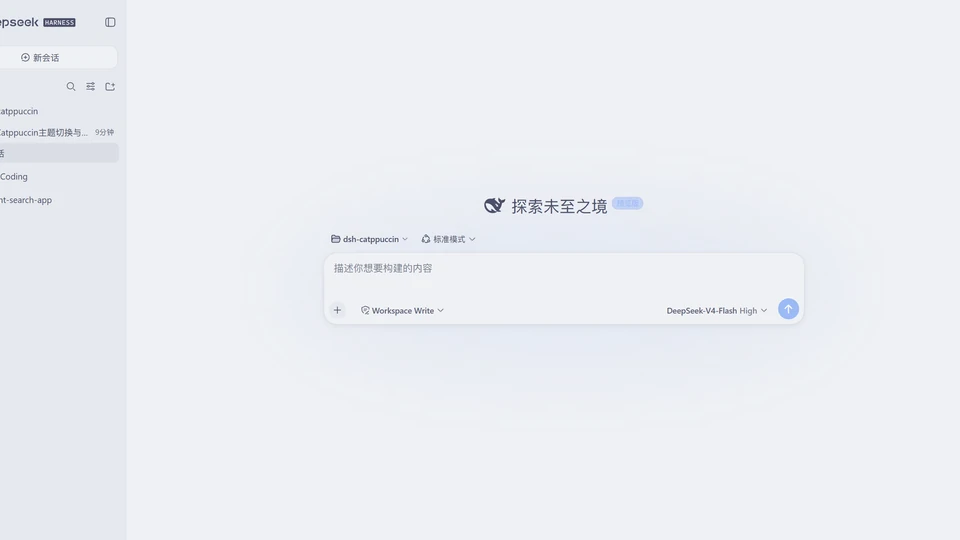
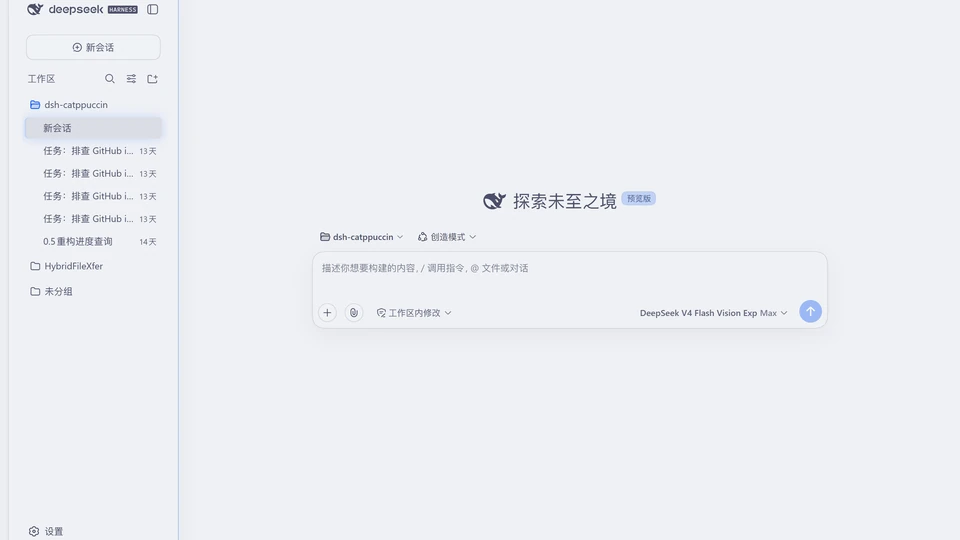
chore(catalog): sync upstream themes

diff --git a/THEMES.en.md b/THEMES.en.md
@@ -18,7 +18,7 @@
 <td align="center" valign="middle">Abyssal Maid Atelier</td>
 <td align="center" valign="middle"><img src="previews/small-tailqwq.maid-atelier.webp" alt="Abyssal Maid Atelier" width="260"></td>
 <td align="center" valign="middle"><a href="https://github.com/Small-tailqwq/dsh-deep-whale">Small-tailqwq/dsh-deep-whale</a></td>
-<td align="center" valign="middle">2,154</td>
+<td align="center" valign="middle">2,166</td>
 </tr>
 <tr>
 <td align="center" valign="middle">DSH-Transparent-UI-Plugin</td>
@@ -30,13 +30,13 @@
 <td align="center" valign="middle">Open Sea Skin</td>
 <td align="center" valign="middle"><img src="previews/d-dev0101.open-sea-skin.webp" alt="Open Sea Skin" width="260"></td>
 <td align="center" valign="middle"><a href="https://github.com/d-dev0101/open-sea-skin">d-dev0101/open-sea-skin</a></td>
-<td align="center" valign="middle">378</td>
+<td align="center" valign="middle">381</td>
 </tr>
 <tr>
 <td align="center" valign="middle">Liang Intensity Skin</td>
 <td align="center" valign="middle"><img src="previews/king-of-soy-sauce.liang-intensity.webp" alt="Liang Intensity Skin" width="260"></td>
 <td align="center" valign="middle"><a href="https://github.com/kingOfSoySauce/dsh-liang-skin">kingOfSoySauce/dsh-liang-skin</a></td>
-<td align="center" valign="middle">211</td>
+<td align="center" valign="middle">213</td>
 </tr>
 <tr>
 <td align="center" valign="middle">dsh-dream-skin</td>
@@ -48,7 +48,7 @@
 <td align="center" valign="middle">dsh-catppuccin</td>
 <td align="center" valign="middle"><img src="previews/nonamelego.dsh-catppuccin.webp" alt="dsh-catppuccin" width="260"></td>
 <td align="center" valign="middle"><a href="https://github.com/NoNameLeGo/dsh-catppuccin">NoNameLeGo/dsh-catppuccin</a></td>
-<td align="center" valign="middle">41</td>
+<td align="center" valign="middle">42</td>
 </tr>
 <tr>
 <td align="center" valign="middle">Denia · Void Bubble</td>
@@ -159,15 +159,15 @@
 <td align="center" valign="middle">11</td>
 </tr>
 <tr>
-<td align="center" valign="middle">DSH Appearance Gallery</td>
-<td align="center" valign="middle"><img src="previews/wsxwj123.dsh-appearance-gallery.webp" alt="DSH Appearance Gallery" width="260"></td>
-<td align="center" valign="middle"><a href="https://github.com/wsxwj123/dsh-plugins">wsxwj123/dsh-plugins</a></td>
-<td align="center" valign="middle">8</td>
-</tr>
-<tr>
 <td align="center" valign="middle">dsh-anthropic-fonts</td>
 <td align="center" valign="middle"><img src="previews/isilsolme.dsh-anthropic-fonts.webp" alt="dsh-anthropic-fonts" width="260"></td>
 <td align="center" valign="middle"><a href="https://github.com/Isilsolme/dsh-anthropic-fonts">Isilsolme/dsh-anthropic-fonts</a></td>
+<td align="center" valign="middle">9</td>
+</tr>
+<tr>
+<td align="center" valign="middle">DSH Appearance Gallery</td>
+<td align="center" valign="middle"><img src="previews/wsxwj123.dsh-appearance-gallery.webp" alt="DSH Appearance Gallery" width="260"></td>
+<td align="center" valign="middle"><a href="https://github.com/wsxwj123/dsh-plugins">wsxwj123/dsh-plugins</a></td>
 <td align="center" valign="middle">8</td>
 </tr>
 <tr>

diff --git a/THEMES.md b/THEMES.md
@@ -18,7 +18,7 @@
 <td align="center" valign="middle">深海女仆工坊</td>
 <td align="center" valign="middle"><img src="previews/small-tailqwq.maid-atelier.webp" alt="深海女仆工坊" width="260"></td>
 <td align="center" valign="middle"><a href="https://github.com/Small-tailqwq/dsh-deep-whale">Small-tailqwq/dsh-deep-whale</a></td>
-<td align="center" valign="middle">2,154</td>
+<td align="center" valign="middle">2,166</td>
 </tr>
 <tr>
 <td align="center" valign="middle">DSH-Transparent-UI-Plugin</td>
@@ -30,13 +30,13 @@
 <td align="center" valign="middle">Open Sea 海洋皮肤</td>
 <td align="center" valign="middle"><img src="previews/d-dev0101.open-sea-skin.webp" alt="Open Sea 海洋皮肤" width="260"></td>
 <td align="center" valign="middle"><a href="https://github.com/d-dev0101/open-sea-skin">d-dev0101/open-sea-skin</a></td>
-<td align="center" valign="middle">378</td>
+<td align="center" valign="middle">381</td>
 </tr>
 <tr>
 <td align="center" valign="middle">滑动变祖</td>
 <td align="center" valign="middle"><img src="previews/king-of-soy-sauce.liang-intensity.webp" alt="滑动变祖" width="260"></td>
 <td align="center" valign="middle"><a href="https://github.com/kingOfSoySauce/dsh-liang-skin">kingOfSoySauce/dsh-liang-skin</a></td>
-<td align="center" valign="middle">211</td>
+<td align="center" valign="middle">213</td>
 </tr>
 <tr>
 <td align="center" valign="middle">dsh-dream-skin</td>
@@ -48,7 +48,7 @@
 <td align="center" valign="middle">dsh-catppuccin</td>
 <td align="center" valign="middle"><img src="previews/nonamelego.dsh-catppuccin.webp" alt="dsh-catppuccin" width="260"></td>
 <td align="center" valign="middle"><a href="https://github.com/NoNameLeGo/dsh-catppuccin">NoNameLeGo/dsh-catppuccin</a></td>
-<td align="center" valign="middle">41</td>
+<td align="center" valign="middle">42</td>
 </tr>
 <tr>
 <td align="center" valign="middle">达妮娅 · 虚无之泡</td>
@@ -159,15 +159,15 @@
 <td align="center" valign="middle">11</td>
 </tr>
 <tr>
-<td align="center" valign="middle">DSH 外观画廊</td>
-<td align="center" valign="middle"><img src="previews/wsxwj123.dsh-appearance-gallery.webp" alt="DSH 外观画廊" width="260"></td>
-<td align="center" valign="middle"><a href="https://github.com/wsxwj123/dsh-plugins">wsxwj123/dsh-plugins</a></td>
-<td align="center" valign="middle">8</td>
-</tr>
-<tr>
 <td align="center" valign="middle">dsh-anthropic-fonts</td>
 <td align="center" valign="middle"><img src="previews/isilsolme.dsh-anthropic-fonts.webp" alt="dsh-anthropic-fonts" width="260"></td>
 <td align="center" valign="middle"><a href="https://github.com/Isilsolme/dsh-anthropic-fonts">Isilsolme/dsh-anthropic-fonts</a></td>
+<td align="center" valign="middle">9</td>
+</tr>
+<tr>
+<td align="center" valign="middle">DSH 外观画廊</td>
+<td align="center" valign="middle"><img src="previews/wsxwj123.dsh-appearance-gallery.webp" alt="DSH 外观画廊" width="260"></td>
+<td align="center" valign="middle"><a href="https://github.com/wsxwj123/dsh-plugins">wsxwj123/dsh-plugins</a></td>
 <td align="center" valign="middle">8</td>
 </tr>
 <tr>
